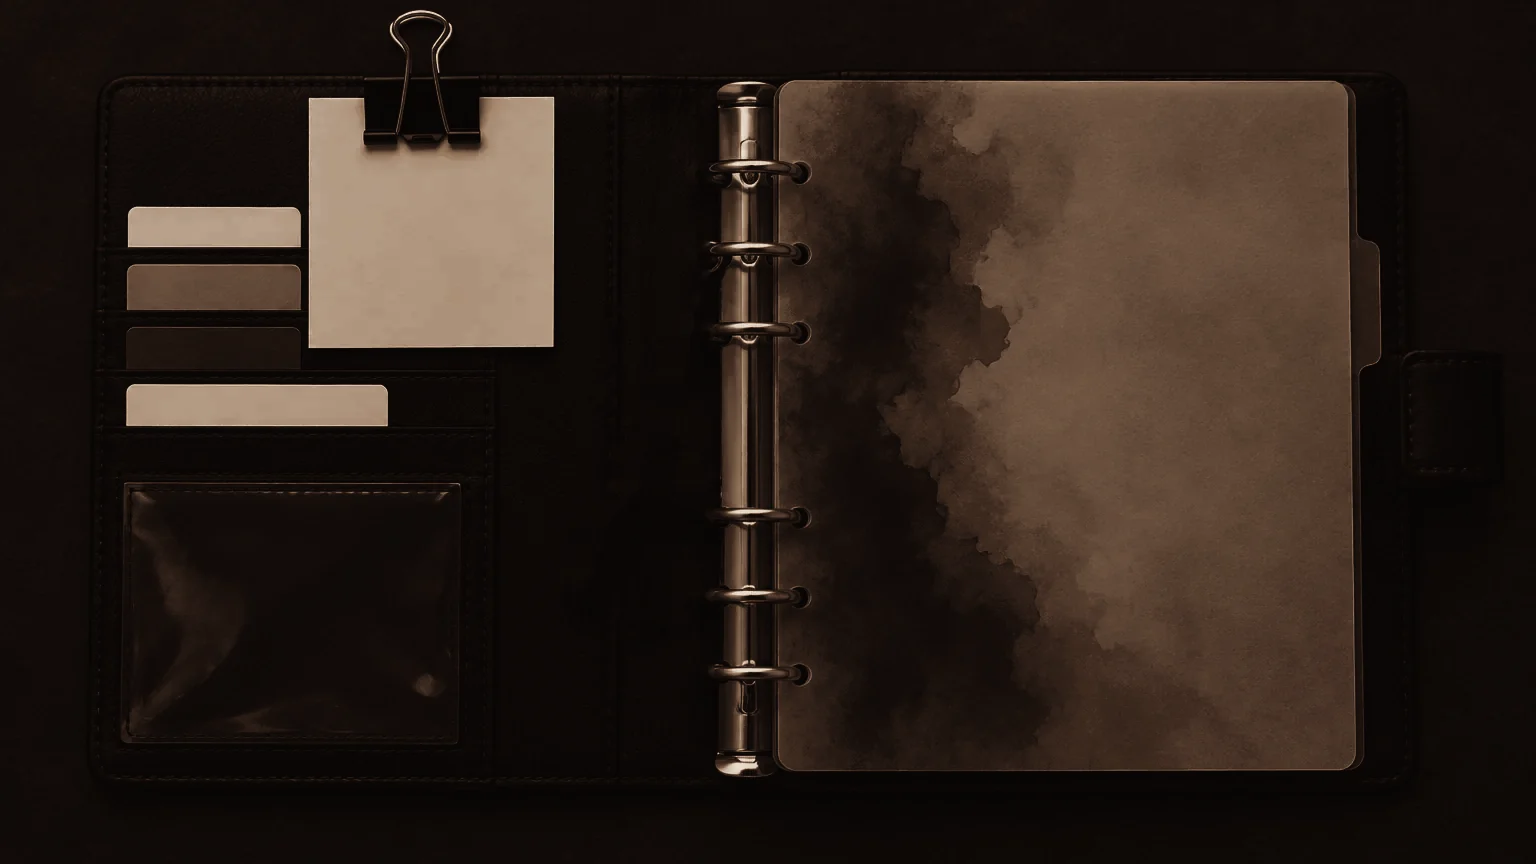
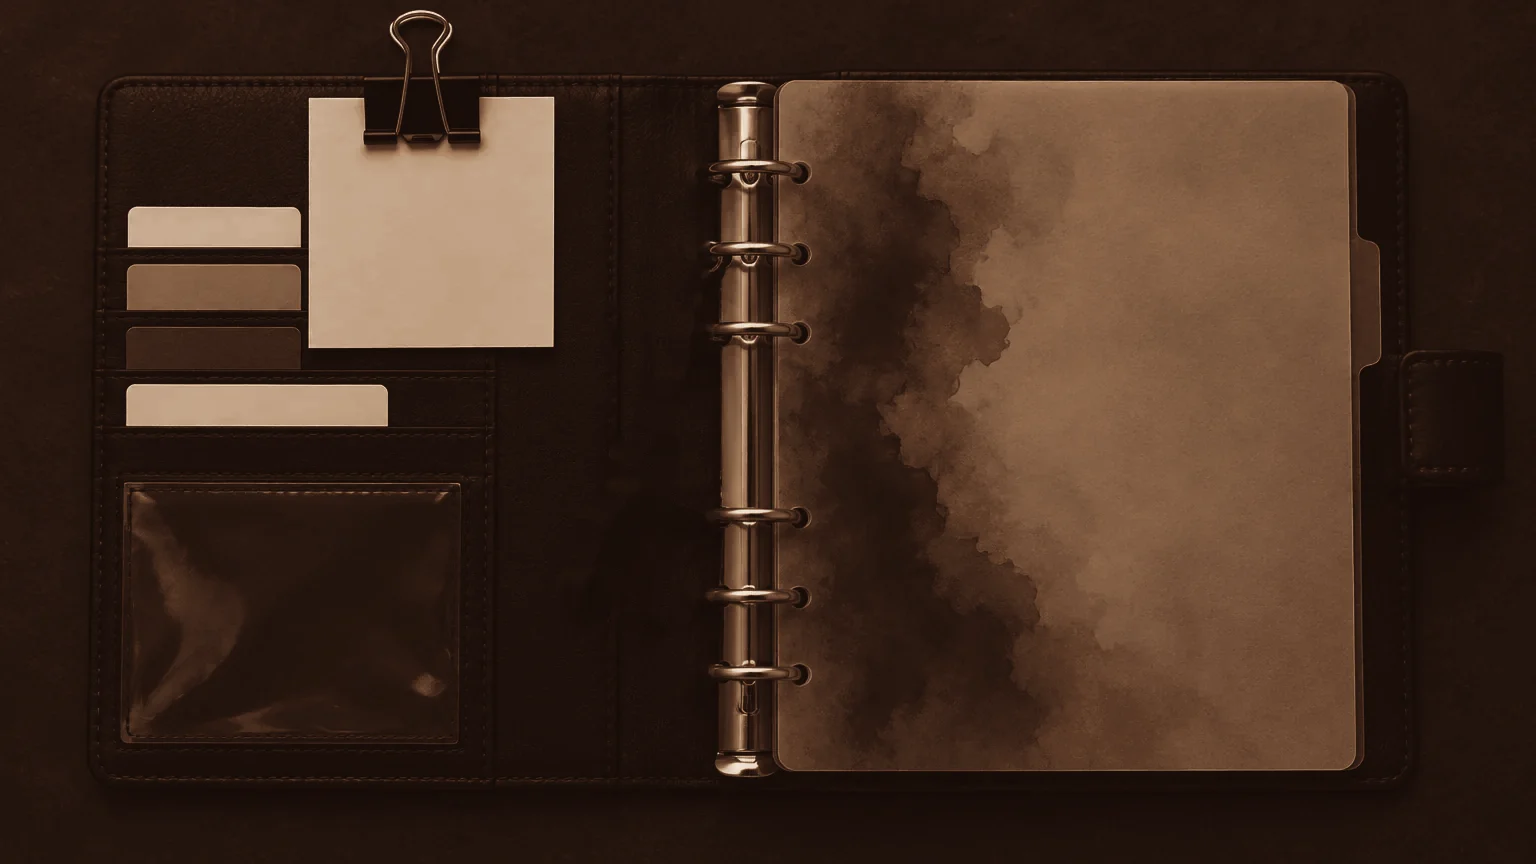
v118: portada de cuero marrón y paleta chocolate (gótica cálida) con estampado de vaca
Claude-Session: https://claude.ai/code/session_01BB8eTEaLMvEnfDMWBboEm5

diff --git a/js/summarizer.js b/js/summarizer.js
@@ -156,10 +156,10 @@ PREGUNTAS: "practica" lleva 5 preguntas de práctica ESTILO vestibular sobre los
 LÁMINA ILUSTRADA (debe ser bonita y funcional, como un cuaderno de estudio de Pinterest):
 - "partes": de 4 a 8. Si el tema tiene partes físicas (célula, órgano, sistema, molécula, planta, aparato) cada parte es una estructura numerada del esquema. Si no (historia, procesos, fórmulas), son etapas, causas o conceptos clave en orden lógico.
 - COLORES DE LAS TARJETAS: por defecto TODAS las partes llevan el MISMO color ("caramelo") y "usa_colores": false, "leyenda": []. Solo si las partes pertenecen a categorías distintas que conviene diferenciar (ej.: organelos de célula animal vs. vegetal, arterias vs. venas, metales vs. no metales, causas vs. consecuencias) pon "usa_colores": true, da el mismo color a las partes de la misma categoría y explica cada color en "leyenda". Nunca colores distintos sin una razón.
-- PALETA BASE (vaca gótica, predominan los oscuros): fondo casi negro #0E0907, café espresso #2E1B14, caramelo #8A5A3C, tostado #B98A64 y crema #EFE3D3 para textos y contornos. Usa otro color SOLO para identificar elementos que el tema distingue por color (sangre arterial roja / venosa azul, cloroplastos verdes, indicadores químicos, espectro, átomos), nunca de adorno.
+- PALETA BASE (vaca gótica, predominan los oscuros): fondo chocolate profundo #1F130D, café espresso #2E1B14, caramelo #8A5A3C, tostado #B98A64 y crema #EFE3D3 para textos y contornos. Usa otro color SOLO para identificar elementos que el tema distingue por color (sangre arterial roja / venosa azul, cloroplastos verdes, indicadores químicos, espectro, átomos), nunca de adorno.
 - "svg": ilustración didáctica real del tema como dibujo de cuaderno sobre fondo negro: viewBox="0 0 400 300", formas simples y redondeadas, rellenos en caramelo, tostado y crema (#8A5A3C, #B98A64, #E9DCCB) con detalles café espresso (#2E1B14) y, si hace falta identificar algo, el color que corresponda; contornos crema (#F5EFE6) de 2 px; fondo transparente (se ve sobre café espresso). Debe mostrar el tema de verdad (la célula con sus organelos, el corazón con sus cavidades, el ciclo con flechas, la línea de tiempo, el gráfico…). Marca cada parte con un círculo café espresso con borde crema y su número (el "n" de "partes") en <text> crema, font-size 14, bold, centrado, unido a la parte con una línea fina crema. Sin frases dentro del SVG (solo números o fórmulas de 1-3 caracteres). Sin <script>, sin imágenes, sin foreignObject. Máximo 4500 caracteres. Comillas simples dentro del SVG.
 - "tabla": 3 a 6 filas que resuman lo esencial (estructura → función, etapa → qué pasa, fecha → hecho).
-Reglas: LO MÁS CONCISO POSIBLE. Estilo apunte telegráfico: 'Concepto: idea clave', sin artículos ni relleno, máx 12 palabras por item; une fragmentos repetidos en un solo item; corrige errores de lectura (OCR) del texto escaneado. No inventes datos que no estén en los fragmentos salvo en explicacion/analogia (máx 2 frases cortas). Mantén el nivel de importancia que puso la estudiante. COLORES: el resumen va en hoja casi negra con estampado de vaca oscuro y letras crema (gótico, café y caramelo), pero si un color es NECESARIO para entender (sangre arterial/venosa, indicadores químicos, colores de llamas, espectro, partes de un esquema que se distinguen por color), es obligatorio marcarlo así: [[rojo:sangre arterial]], [[azul:sangre venosa]] (colores: rojo, azul, verde, amarillo, morado, naranja, rosa, celeste, marron, gris). No uses color si no aporta a la explicación.`;
+Reglas: LO MÁS CONCISO POSIBLE. Estilo apunte telegráfico: 'Concepto: idea clave', sin artículos ni relleno, máx 12 palabras por item; une fragmentos repetidos en un solo item; corrige errores de lectura (OCR) del texto escaneado. No inventes datos que no estén en los fragmentos salvo en explicacion/analogia (máx 2 frases cortas). Mantén el nivel de importancia que puso la estudiante. COLORES: el resumen va en hoja chocolate profundo con estampado de vaca y letras crema (gótico, café y caramelo), pero si un color es NECESARIO para entender (sangre arterial/venosa, indicadores químicos, colores de llamas, espectro, partes de un esquema que se distinguen por color), es obligatorio marcarlo así: [[rojo:sangre arterial]], [[azul:sangre venosa]] (colores: rojo, azul, verde, amarillo, morado, naranja, rosa, celeste, marron, gris). No uses color si no aporta a la explicación.`;
   const { cooled, coolDown, waitFrom } = await import('./quota.js');
   const models = [...new Set([model, 'gemini-3.8-flash', 'gemini-3.6-flash', 'gemini-flash-latest', 'gemini-2.5-flash', 'gemini-3.5-flash-lite', 'gemini-3.1-flash-lite', 'gemini-flash-lite-latest'].filter(Boolean))];
   let lastErr, quota = false;

diff --git a/sw.js b/sw.js
@@ -1,6 +1,6 @@
 // Funciona sin internet y aunque el sitio esté pausado: guarda TODA la app
 // (incluidos los decodificadores de imágenes de PDF) en el dispositivo.
-const V = 'apuntes-v117';
+const V = 'apuntes-v118';
 const CORE = ["./", "js/ambient.js", "css/app.css", "icons/apple-180.png", "icons/icon-192.png", "icons/icon-512.png", "icons/maskable-512.png", "index.html", "js/app.js", "js/db.js", "js/fonts.js", "js/home.js", "js/imageeditor.js", "js/ink.js", "js/minikb.js", "js/tpledit.js", "js/notebook.js", "js/pdfview.js", "js/stickers.js", "js/study.js", "js/summarizer.js", "js/sync.js", "js/solver.js", "js/loona.js", "js/recorder.js", "js/music.js", "js/backup.js", "js/handsfree.js", "js/cmds.js", "js/quota.js", "js/coach.js", "js/errors.js", "js/quiz.js", "js/plan.js", "js/game.js", "js/pageturn.js", "data/indices.json", "js/live.js", "js/agenda.js", "vendor/page-flip/page-flip.module.js", "img/portada.webp", "img/marco.webp", "img/marco-top.webp", "img/clip.webp", "img/borde-bio.webp", "img/hero-bio.webp", "img/hero-quim.webp", "img/hero-gen.webp", "img/borde-quim.webp", "img/borde-gen.webp", "img/dije-fuera.webp", "img/dije-real.webp", "img/vaca.webp", "img/vaca-osc.webp", "img/nota-luna.webp", "img/marco-top-claro.webp", "img/marco-top-grafito.webp", "img/cuero.jpg", "img/papel.jpg", "img/agenda.webp", "img/ola-top.webp", "img/ola-big.webp", "img/lam-celula-top.webp", "img/lam-celula-big.webp", "img/lam-genetica-top.webp", "img/lam-genetica-big.webp", "img/lam-corpo-top.webp", "img/lam-corpo-big.webp", "img/lam-plantas-top.webp", "img/lam-plantas-big.webp", "img/lam-quimica-top.webp", "img/lam-quimica-big.webp", "img/lam-fisica-top.webp", "img/lam-fisica-big.webp", "img/lam-mar-top.webp", "img/lam-mar-big.webp", "img/agenda-s.webp", "img/deco-polaroid.webp", "img/deco-corazon.webp", "img/deco-sello.webp", "img/grano.png", "js/tapes.js", "js/templates.js", "js/ui.js", "js/wheel.js", "manifest.webmanifest", "vendor/katex/katex.min.js", "vendor/katex/katex.min.css", "vendor/katex/fonts/KaTeX_AMS-Regular.woff2", "vendor/katex/fonts/KaTeX_Caligraphic-Bold.woff2", "vendor/katex/fonts/KaTeX_Caligraphic-Regular.woff2", "vendor/katex/fonts/KaTeX_Fraktur-Bold.woff2", "vendor/katex/fonts/KaTeX_Fraktur-Regular.woff2", "vendor/katex/fonts/KaTeX_Main-Bold.woff2", "vendor/katex/fonts/KaTeX_Main-BoldItalic.woff2", "vendor/katex/fonts/KaTeX_Main-Italic.woff2", "vendor/katex/fonts/KaTeX_Main-Regular.woff2", "vendor/katex/fonts/KaTeX_Math-BoldItalic.woff2", "vendor/katex/fonts/KaTeX_Math-Italic.woff2", "vendor/katex/fonts/KaTeX_SansSerif-Bold.woff2", "vendor/katex/fonts/KaTeX_SansSerif-Italic.woff2", "vendor/katex/fonts/KaTeX_SansSerif-Regular.woff2", "vendor/katex/fonts/KaTeX_Script-Regular.woff2", "vendor/katex/fonts/KaTeX_Size1-Regular.woff2", "vendor/katex/fonts/KaTeX_Size2-Regular.woff2", "vendor/katex/fonts/KaTeX_Size3-Regular.woff2", "vendor/katex/fonts/KaTeX_Size4-Regular.woff2", "vendor/katex/fonts/KaTeX_Typewriter-Regular.woff2", "vendor/pdf-lib.min.js", "vendor/pdf.min.mjs", "vendor/pdf.worker.min.mjs", "vendor/standard_fonts/FoxitDingbats.pfb", "vendor/standard_fonts/FoxitFixed.pfb", "vendor/standard_fonts/FoxitFixedBold.pfb", "vendor/standard_fonts/FoxitFixedBoldItalic.pfb", "vendor/standard_fonts/FoxitFixedItalic.pfb", "vendor/standard_fonts/FoxitSerif.pfb", "vendor/standard_fonts/FoxitSerifBold.pfb", "vendor/standard_fonts/FoxitSerifBoldItalic.pfb", "vendor/standard_fonts/FoxitSerifItalic.pfb", "vendor/standard_fonts/FoxitSymbol.pfb", "vendor/standard_fonts/LiberationSans-Bold.ttf", "vendor/standard_fonts/LiberationSans-BoldItalic.ttf", "vendor/standard_fonts/LiberationSans-Italic.ttf", "vendor/standard_fonts/LiberationSans-Regular.ttf", "vendor/wasm/jbig2.wasm", "vendor/wasm/jbig2_nowasm_fallback.js", "vendor/wasm/openjpeg.wasm", "vendor/wasm/openjpeg_nowasm_fallback.js", "vendor/wasm/qcms_bg.wasm"];
 self.addEventListener('install', e => {
   e.waitUntil(caches.open(V).then(async c => {

diff --git a/css/app.css b/css/app.css
@@ -2294,3 +2294,27 @@ html.lite .ag-dije-in, html.lite .agenda.closed .ag-dije-out { animation: none !
 .sum.tpl-lamina .lam-note.rec > b { padding: 10px 12px 2px; margin: 8px 8px 0 !important; border-radius: 3px 3px 0 0; }
 .sum.tpl-lamina .lam-note.rec > p { padding: 2px 12px 10px; margin: 0 8px 8px !important; border-radius: 0 0 3px 3px; }
 .agc-hint { background: none !important; }
+
+/* ============ v118: vaca gótica en MARRÓN — chocolate profundo en vez de negro ============ */
+:root { --g-bg: #1f130d; --g-bg2: #2a1a12; --g-card: #2e1e16; --g-line: #55392a; --g-tx: #F1E6D6; --g-tx2: #C4A88C; --choc: #3b2418; }
+.home.ag-home { background: radial-gradient(70% 60% at 50% 45%, transparent 35%, rgba(20,10,6,.7) 100%), linear-gradient(160deg, #3a2318, #160c08) !important; }
+.agc-front { background: radial-gradient(120% 90% at 30% 20%, rgba(255,214,170,.14), transparent 55%), linear-gradient(90deg, rgba(0,0,0,.45), transparent 9%), linear-gradient(#5a3624, #3b2418), url(../img/cuero.jpg) center / 384px !important; background-blend-mode: normal, normal, multiply, normal !important; }
+.agc-front { border: 1px solid #22140d; }
+.agc-name { color: #F1E6D6 !important; -webkit-text-fill-color: #F1E6D6 !important; text-shadow: 0 1px 0 #1a0e08, 0 0 14px rgba(20,10,6,.9) !important; }
+.agc-strap, .agc-front .agc-strap { background: linear-gradient(180deg, #5a3624, #2a170e) !important; }
+.ag-desk, .agenda::after { background: radial-gradient(120% 100% at 70% 50%, #3a2318, #160c08 70%) !important; }
+.ag-tabl { background: linear-gradient(180deg, #5a3624, #2e1a11) !important; color: #E9D8C2 !important; }
+#loona-fab, .loona-fab { box-shadow: 0 0 0 2px #8a5a3c, 0 6px 14px rgba(20,10,6,.7) !important; }
+.modal { background: linear-gradient(180deg, #2e1d14, #1c110c) !important; }
+.modal .field { background: #1a100b !important; } .modal .btn, .modal .chip { background: #3b2418 !important; }
+.toast { background: #1c110c !important; }
+.game-hud { background: linear-gradient(180deg, #3b2418, #1f130d) !important; }
+.loona-say { background: #2a1a12 !important; }
+.ag-note, .ag-note.ag-hot { background: linear-gradient(rgba(42,26,18,.95), rgba(42,26,18,.95)) center / 86% 82% no-repeat, var(--vaca) 10% 20% / 260px, #2a1a12 !important; }
+.sum.tpl-lamina { background: linear-gradient(180deg, rgba(31,19,13,.05) 0, rgba(31,19,13,.35) 90px, rgba(31,19,13,.93) 135px, #1f130d 160px), var(--vaca) 0 0 / 380px repeat-x, #1f130d !important; }
+.sum.tpl-lamina .sum-title { -webkit-text-stroke: .14em #1f130d !important; }
+.sum.tpl-lamina .lam-fig { background: #160c08 !important; }
+.sum.tpl-lamina .lam-tab th { background: #160c08 !important; } .sum.tpl-lamina .lam-tab tr:nth-child(even) td { background: #26170f !important; }
+.sum.tpl-lamina .lam-note.rec > * { background: rgba(31,19,13,.93); }
+.errv-day, .quiz-alt { background: #1a100b !important; }
+.agc-front { background: radial-gradient(120% 90% at 30% 20%, rgba(255,214,170,.16), transparent 55%), linear-gradient(90deg, rgba(0,0,0,.4), transparent 9%), url(../img/cuero.jpg) center / 384px, linear-gradient(160deg, #6b4129, #3d2418 70%, #2a170f) !important; background-blend-mode: normal, normal, soft-light, normal !important; }

diff --git a/js/home.js b/js/home.js
@@ -1,6 +1,6 @@
 // Inicio estilo launcher en cuero: materias como cuadernos, dock inferior.
 import * as db from './db.js';
-export const APP_VERSION = 117;
+export const APP_VERSION = 118;
 import * as sync from './sync.js';
 import { h, icon, iconBtn, COVERS, modal, ask, confirmBox, toast, pickFile, download } from './ui.js';
 import { addFontFiles, DAFONT } from './fonts.js';
